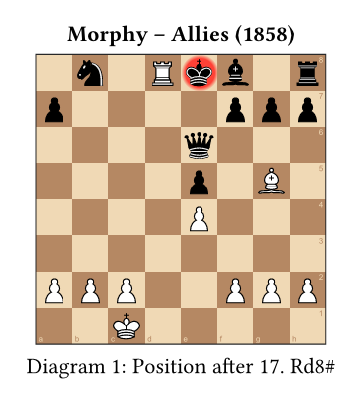
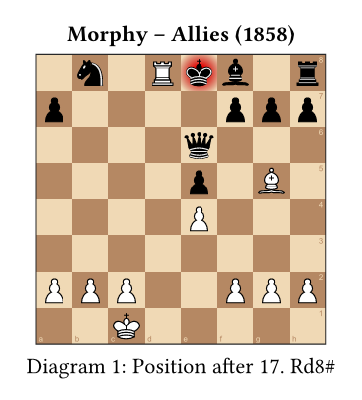
feat(board): reproduce Lichess's in-check glow
The glow was a near-solid disc: opaque out to 78% of the inscribed
circle, then a thin fade. Lichess's is a soft radial that starts fading
early and reaches zero just before the corners. Side by side the
difference is not subtle, and the old look was the odd one out.

Extracted from the reference screenshot rather than eyeballed. Unmixing
every pixel of the check square against its known base colour gives an
alpha profile that is linear in radius -- opaque to r~0.29, zero at
r~1.29 (1.0 = edge midpoint) -- which matches Lichess's published CSS

  radial-gradient(ellipse at center, rgba(255,0,0,1) 0%,
    rgba(231,0,0,1) 25%, rgba(169,0,0,0) 89%, rgba(158,0,0,0) 100%)

to within 0.04 alpha across the whole radius.

Two things make the port faithful. CSS's default extent is
farthest-corner, which is radius 70.71% in Typst's terms, not the
default 50%. And Lichess's stops DARKEN as they fade (255/231/169/158);
`darken(9%/34%/38%)` lands on 232/168/158, within 1/255.

Deriving that darkening from `check-color` rather than hard-coding the
reds is the whole design: a literal port would have made `check-color` a
dead option, contradicting what the code already promised. A blue
check-color now yields the same profile in blue -- asserted, and the
assertion was verified to fail when the derivation is stubbed out.

The default `check-color` moves from Typst's named `red` (#ff4136, a
coral) to pure #ff0000: the profile is Lichess's and the hue is half of
[…]

Changed region(s): [[0.4862, 0.12, 0.6077, 0.24]]

diff --git a/tests/VISUAL_CHECKS.md b/tests/VISUAL_CHECKS.md
@@ -167,14 +167,18 @@ Then open the PDFs below and check the noted property. (The expected-*fail* test
       highlight lands on the right square and layers correctly with custom pieces.)
 - [ ] `board/geometry/nonstandard_boards.pdf` — non-8×8 geometry looks sane.
 - [ ] `board/markings/markings.pdf` (check glow + move-quality badges) —
-      *In-check glow*: a **Lichess-style** red radial that fills most of the square
-      — solid near the centre and reaching the **edge midpoints**, with only the four
-      **corners** left showing the bare square color — sits **under** the king on
-      the checked square, which stays crisp **on top** (the glow must NOT vanish
-      under the piece). Present on both the Black-in-check and White-in-check boards; the
-      "default" board (no `check:`) shows **no** glow; the custom-color board glows
-      blue. The reference-play board (`3. Qh5#`) glows the Black king. The glow stays
-      roughly circular and does not bleed into neighbouring squares.
+      *In-check glow*: a **Lichess-style** red radial soft glow, strongest at the
+      centre and fading continuously outward, still fading as it crosses the
+      **edge midpoints** and reaching zero just **before the corners** (so the
+      corners stay bare, but there is no hard-edged "fills most of the square"
+      look) — sits **under** the king on the checked square, which stays crisp
+      **on top** (the glow must NOT vanish under the piece). Present on both the
+      Black-in-check and White-in-check boards; the "default" board (no `check:`)
+      shows **no** glow; the custom-color board glows blue. The reference-play
+      board (`3. Qh5#`) glows the Black king. The glow stays roughly circular and
+      does not bleed into neighbouring squares. (The gradient's stop structure is
+      asserted in `board/markings/check_gradient.typ`; this is purely the visual
+      shape/color check.)
       *Move-quality badge* (all now sourced from a game): the six glyphs read as
       discs on each move's destination square, at the **upper-right**, pulled toward
       the piece's square — good `!`/`!!` blue, bad `?`/`??` red, interesting `!?`/`?!`
